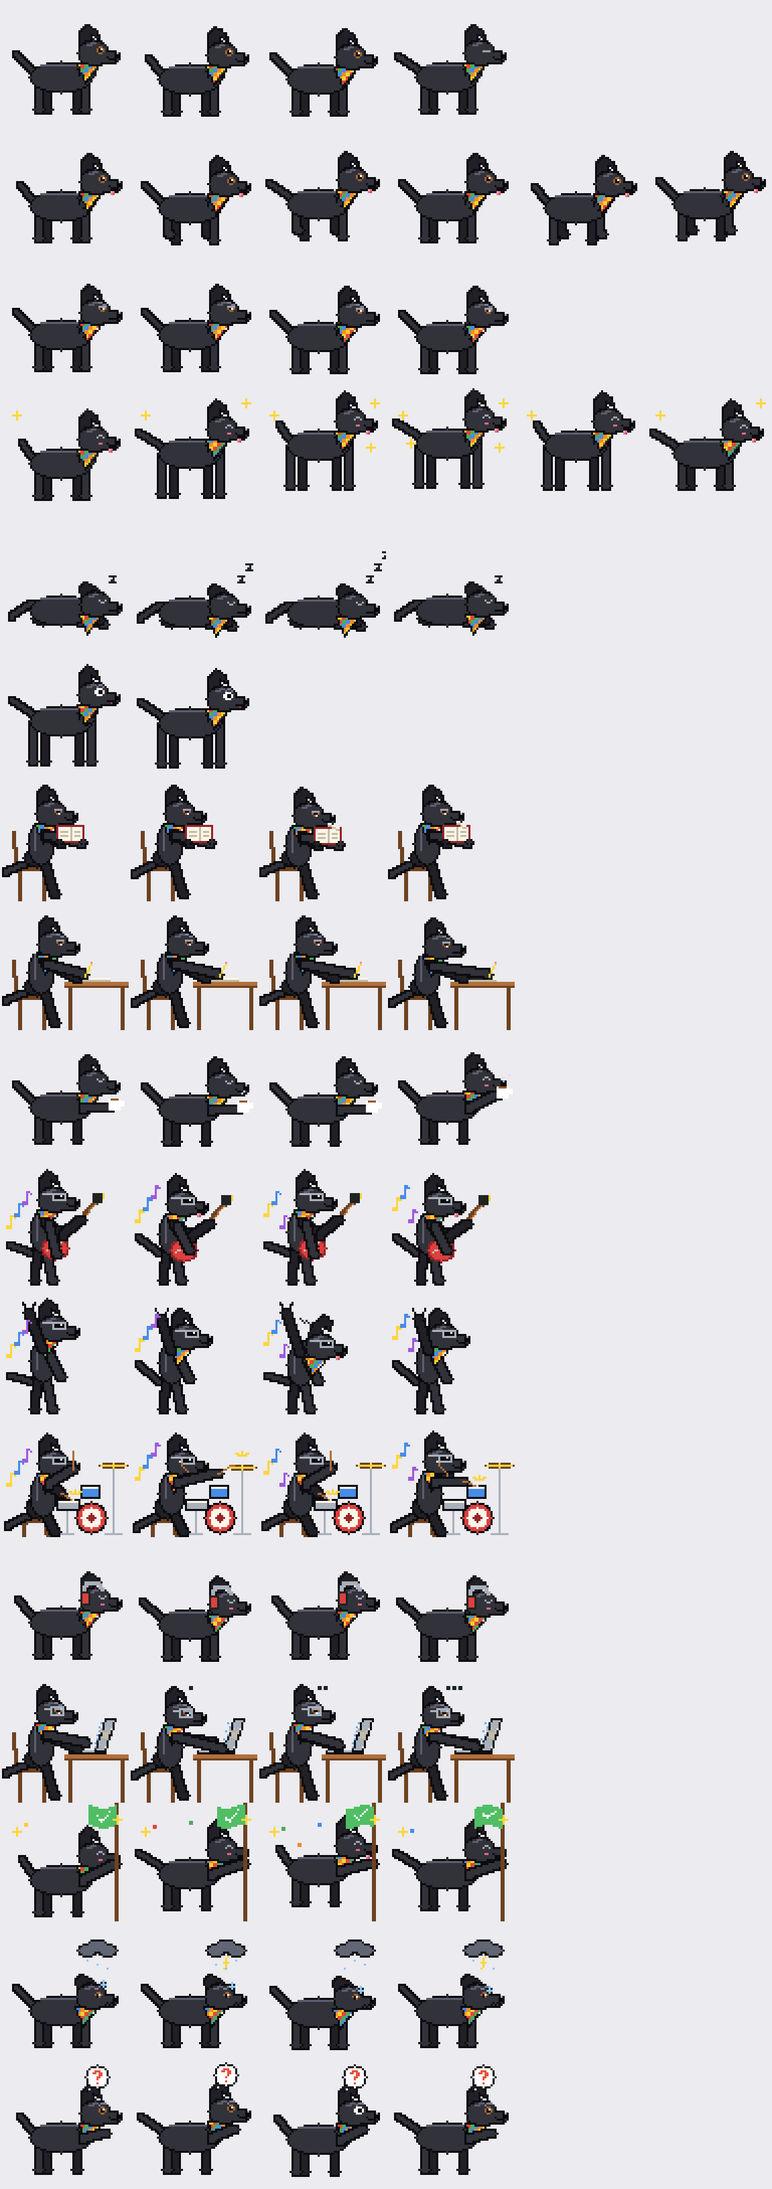
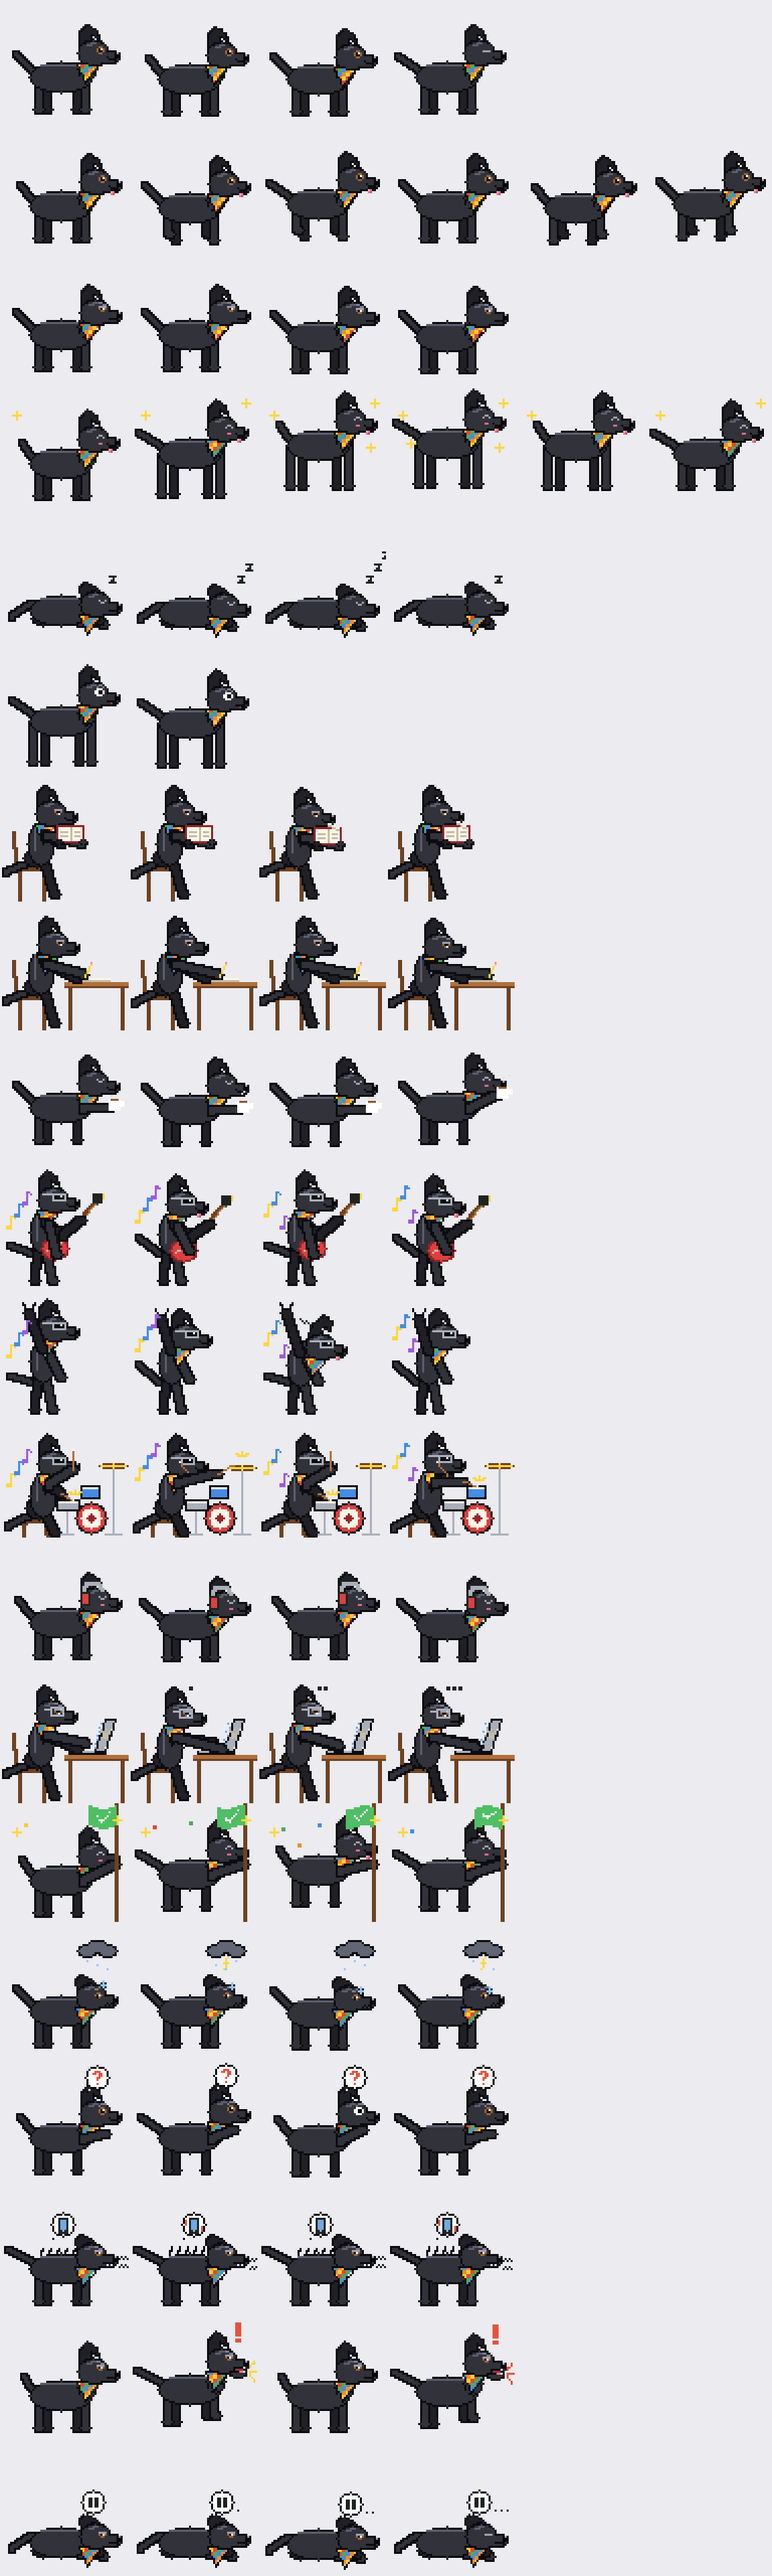
Candolita: sprites de gruñido, ladridos y ausencia

diff --git a/examples/candolita/generate.py b/examples/candolita/generate.py
@@ -57,6 +57,7 @@ EYES = {  # 4 de ancho, la fila 0 cae en ey-2
     "down":    ["....", "llll", "ekke", ".ew."],          # mira hacia abajo (lee, escribe)
     "wide":    [".www.", "wwkkw", "wwkkw", ".www."],      # sorpresa (5 de ancho)
     "sad":     ["....", ".ee.", "ekwe", ".ke."],          # pupila baja
+    "half":    ["....", "llll", "ekwe", ".ee."],          # párpado a media asta: aburrida, esperando
 }
 BROWS = {  # filas ey-4 y ey-3
     "raise": [".bb.", "b..b"], "focus": ["bb..", "..bb"], "sad": ["..bb", "bb.."], "quirk": [".bbb", "b..."],
@@ -74,6 +75,13 @@ def mouth(c, hx, hy, kind):                                             # comisu
     elif kind == "wobble":
         for k, dy in enumerate((1, 0, 1, 0, 0)): c.put(hx + 7 + k, y + dy, LINE)
     elif kind == "flat": c.line(hx + 7, y, hx + 11, y, LINE)
+    elif kind == "snarl":                                               # gruñido: labio arriba y colmillos
+        c.line(hx + 6, y, hx + 11, y, LINE); c.put(hx + 8, y + 1, WHITE); c.put(hx + 10, y + 1, WHITE)
+        c.put(hx + 6, y - 4, LINE); c.put(hx + 7, y - 5, LINE)                         # arruga del hocico
+    elif kind == "bark":                                                # ladrido: mandíbula abierta
+        c.ell(hx + 8, y + 3, 4.5, 2.5, LINE); c.ell(hx + 8, y + 3, 3.5, 1.5, FUR)
+        c.rect(hx + 6, y, hx + 11, y + 2, LINE); c.rect(hx + 7, y + 1, hx + 10, y + 1, (150, 50, 70))
+        c.put(hx + 10, y + 2, TONGUE); c.put(hx + 9, y + 2, TONGUE); c.put(hx + 11, y, WHITE); c.put(hx + 11, y + 2, WHITE)
     elif kind == "o": c.line(hx + 7, y, hx + 11, y, LINE); c.rect(hx + 9, y + 1, hx + 10, y + 2, LINE); c.put(hx + 9, y + 1, (150, 50, 70))
     else:                                                               # smile / open
         c.put(hx + 7, y - 1, LINE); c.line(hx + 8, y, hx + 11, y, LINE)
@@ -354,6 +362,44 @@ def ask(i):                                                             # espera
                arm=(52, (36, 34, 34, 36)[i]), props=p)
 ACC = (232, 82, 60)
 
+def balloon(c, bx, by):                                                 # globito blanco con colita abajo a la izquierda
+    c.ell(bx + 3, by + 4, 6, 6, LINE); c.ell(bx + 3, by + 4, 5, 5, WHITE)
+    c.put(bx - 1, by + 10, WHITE); c.put(bx - 2, by + 11, LINE)
+
+def growl(i):                                                           # vio el teléfono: agachada, pelo erizado, colmillos y "grrr"
+    shake = (0, 1, 0, -1)[i]
+    def p(c, by, hx, hy):
+        for x in range(20, 38, 4): c.line(x, by - 7, x + 1, by - 10 - (x + i) % 2, LINE)   # lomo erizado
+        for k in range(2):                                                              # rumor del gruñido (zigzag)
+            gx, gy = hx + 14, hy + 1 + k * 4 + i % 2
+            for j in range(5): c.put(gx + j, gy - j % 2, INK)
+        bx, by2 = hx - 17, hy - 20                                                      # globito con el teléfono vibrando
+        balloon(c, bx, by2)
+        c.rect(bx + 1, by2 + 1, bx + 5, by2 + 8, INK); c.rect(bx + 2, by2 + 2, bx + 4, by2 + 6, (110, 170, 230)); c.put(bx + 3, by2 + 7, GREY)
+        if i % 2: c.line(bx - 1, by2 + 2, bx - 1, by2 + 4, ACC); c.line(bx + 7, by2 + 5, bx + 7, by2 + 7, ACC)
+    return dog(bob=1, head=(-1 + shake, 6), eyes="focus", wag=-4, props=p,
+               face=dict(brow="focus", smile="snarl", ear="droop"))
+
+def bark(i):                                                            # distracción que cuenta: ladra con todo, saltito y "!"
+    loud = i in (1, 3)
+    def p(c, by, hx, hy):
+        if not loud: return
+        mx, my = hx + 13, hy + 5                                                        # ondas del ladrido desde el hocico
+        for dx, dy in ((3, -5), (4, 0), (3, 5)):
+            c.line(mx + dx // 3, my + dy // 3, mx + dx, my + dy, ACC if i == 3 else GOLD)
+        ex = hx + 8                                                                     # "!" sobre el hocico
+        c.rect(ex - 1, hy - 19, ex + 1, hy - 13, ACC); c.rect(ex - 1, hy - 11, ex + 1, hy - 10, ACC)
+    return dog(dy=(0, -3, 0, -2)[i], legs=(0, 0, 3, 3) if loud else (0, 0, 0, 0), head=(0, -2 if loud else 0), eyes="focus",
+               wag=(4, -4)[i % 2], props=p, face=dict(brow="focus", smile="bark" if loud else "flat", ear="perk"))
+
+def away(i):                                                            # foco pausado porque te fuiste: echada, te espera con "⏸ ..."
+    def p(c, by, hx, hy):
+        bx, by2 = hx - 4, hy - 21
+        balloon(c, bx, by2)
+        c.rect(bx + 1, by2 + 2, bx + 2, by2 + 6, INK); c.rect(bx + 4, by2 + 2, bx + 5, by2 + 6, INK)
+        for k in range(i % 4): c.put(bx + 11 + k * 3, by2 + 8, INK)                    # puntitos que se van sumando
+    return dog(bob=(0, 0, 1, 0)[i], eyes="closed" if i == 3 else "half", tuck=6, props=p, face=dict(smile="flat", ear="droop"))
+
 def png(path, w, h, rows):
     raw = b"".join(b"\x00" + bytes(v for px in row for v in px) for row in rows)
     def ch(t, d): c = struct.pack(">I", len(d)) + t + d; return c + struct.pack(">I", zlib.crc32(t + d))
@@ -365,7 +411,8 @@ def sheet(fn, n):
 
 anims = {"idle": (idle, 4), "walk": (walk, 6), "focus": (focus, 4), "celebrate": (celeb, 6), "sleep": (sleep, 4), "dragged": (drag, 2),
          "read": (read, 4), "write": (write, 4), "tea": (tea, 4), "guitar": (guitar, 4), "headbang": (headbang, 4), "drums": (drums, 4), "listen": (listen, 4), "work": (laptop, 4),
-         "mission": (mission, 4), "oops": (oops, 4), "ask": (ask, 4)}
+         "mission": (mission, 4), "oops": (oops, 4), "ask": (ask, 4),
+         "growl": (growl, 4), "bark": (bark, 4), "away": (away, 4)}
 for name, (fn, n) in anims.items(): png(f"{OUT}/{name}.png", F * n, F, sheet(fn, n))
 
 # vista previa ampliada x3 con todas las filas (fondo claro)

diff --git a/PROGRESS.md b/PROGRESS.md
@@ -113,3 +113,4 @@
 
 ## Lote features — F17
 - F17 Cámara durante el foco: pref `focusCam` (apagada por defecto) + `headDownDeg` (20), `barkAfterSec` (15) y `awayPauseSec` (90) en Ajustes → Cámara durante el foco. `lib/camera.ts` abre la webcam en `PetWindow` solo con un foco corriendo (o pausado por ausencia, para verte volver) y la cierra al pausar/terminar; cada 2 s MediaPipe (`@mediapipe/tasks-vision`, solo el wasm SIMD vía `?url`, modelos en `public/models/`: `FaceLandmarker` con la matriz de pose y `ObjectDetector` EfficientDet-Lite0 clase `cell phone`). `lib/focusCam.ts::step` (puro, con test) decide: cabeza ≥ `headDownDeg` bajo tu postura normal por ≥ 3 s sin teclado ni mouse (`apps.rs::focus_cam_ctx`, `CGEventSourceSecondsSinceLastEventType`, sin permiso de Accesibilidad), o teléfono visto 2 muestras seguidas → gruñido (`oops`, no cuenta); seguir más de `barkAfterSec` → ladridos y `timer.rs::focus_phone` suma la distracción y el tiempo en `session_apps` como la "app" `phone` (emite `focus://distraction`), ladra de nuevo cada 30 s. Sin cara `awayPauseSec` (el teléfono delante de la cara no cuenta como irse) → `timer_pause` + mascota `sleep` (eventos `away`/`back` en `stateMachine`); al volver, notificación (no reanuda). Calibración: mediana del pitch de las primeras 30 muestras usando el computador. Con una reunión grabando no suena (solo anim). Sonidos CC0 de OpenGameArt en `public/sounds/` (`clip()` en `sound.ts`, baja la música como `chime`). `NSCameraUsageDescription` en `Info.plist`. Tests: `focusCam.test.ts`, `stateMachine.test.ts`, `prefs.test.ts`, `telefono_de_la_camara` en `timer.rs`. **Pendiente de verificación con la app**: permiso y `getUserMedia` en el WKWebView de Tauri (dev y bundle), el signo del pitch (asumí matriz column-major, positivo = cabeza abajo; en dev la consola de la mascota imprime `cam {face, pitch, phone}` cada 2 s), consumo de CPU y el volumen de los sonidos.
+- Sprites de la cámara: estados nuevos `growl` (gruñe: la cámara vio el teléfono, aviso), `bark` (ladra: distracción que cuenta, sea una app de la lista de F11 o el teléfono pasado `barkAfterSec`) y `away` (foco pausado por ausencia: echada esperándote con un globito ⏸, ya no se duerme). `oops` queda solo para cuando Claude falla. `camera.ts` manda `growl` en vez de `distracted` (el resto igual). Candolita trae `growl.png`, `bark.png` y `away.png` (en `generate.py`: boca `snarl`/`bark`, ojos `half`, `balloon`); los skins sin esas animaciones caen a `oops`/`oops`/`sleep` y luego a `idle` (`SECOND` en `schema.ts`). Tests: `stateMachine.test.ts`, `schema.test.ts`. Pendiente de verificación visual en la app.
